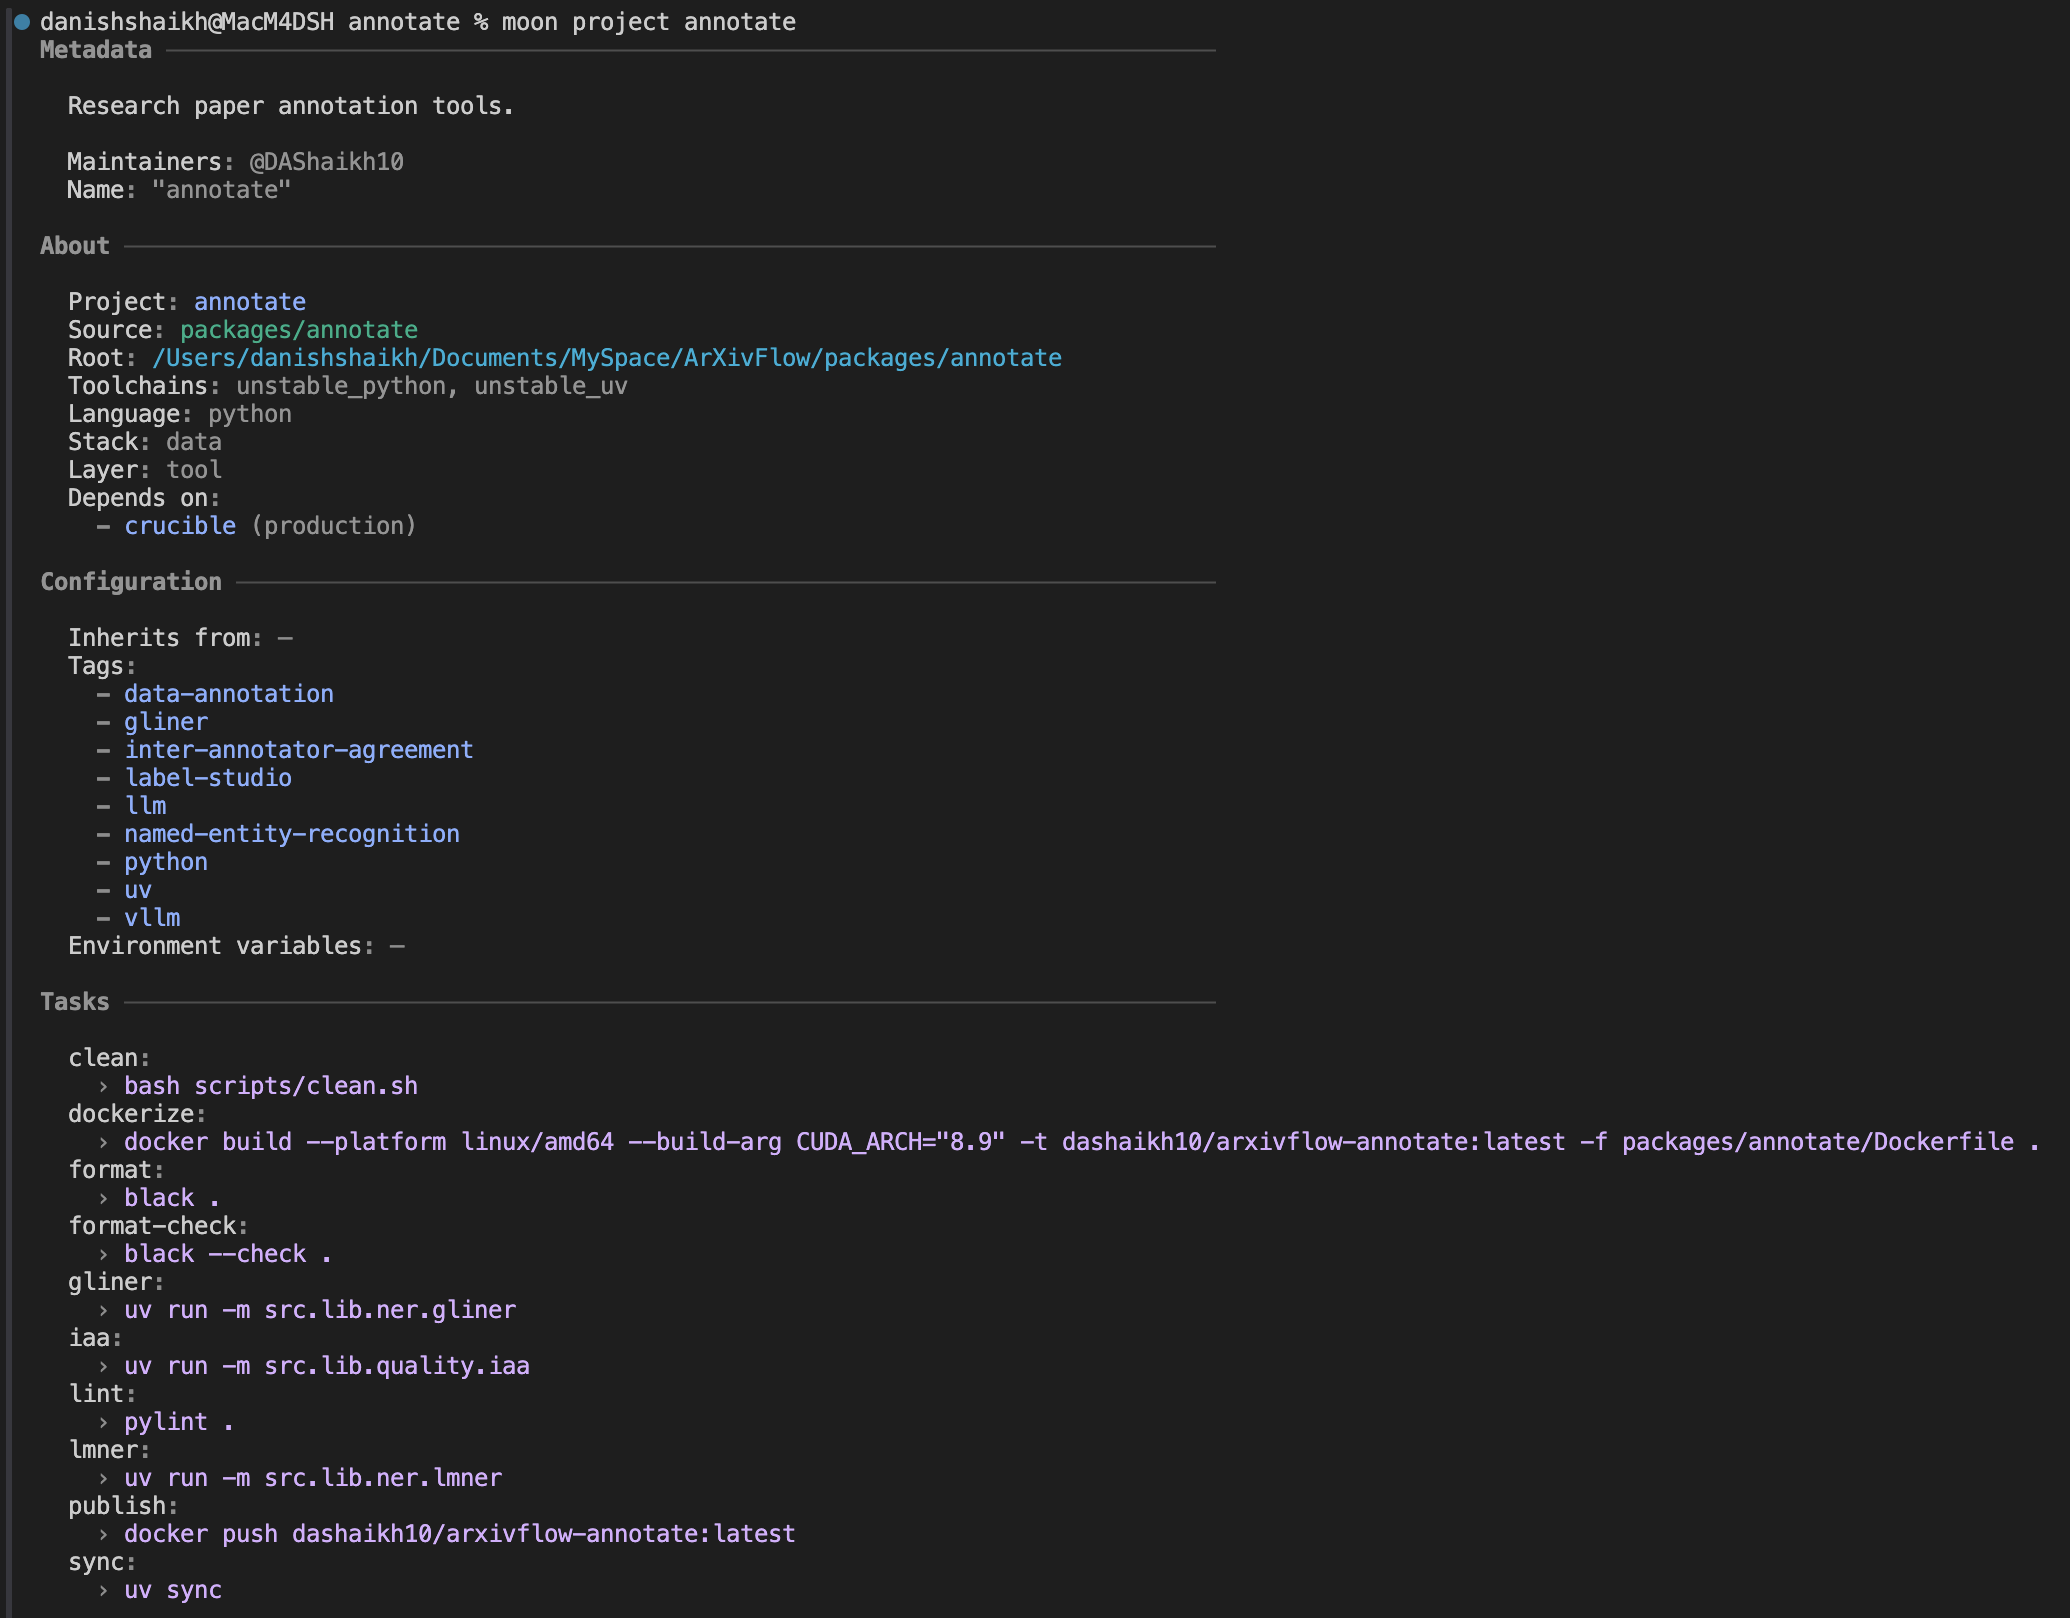
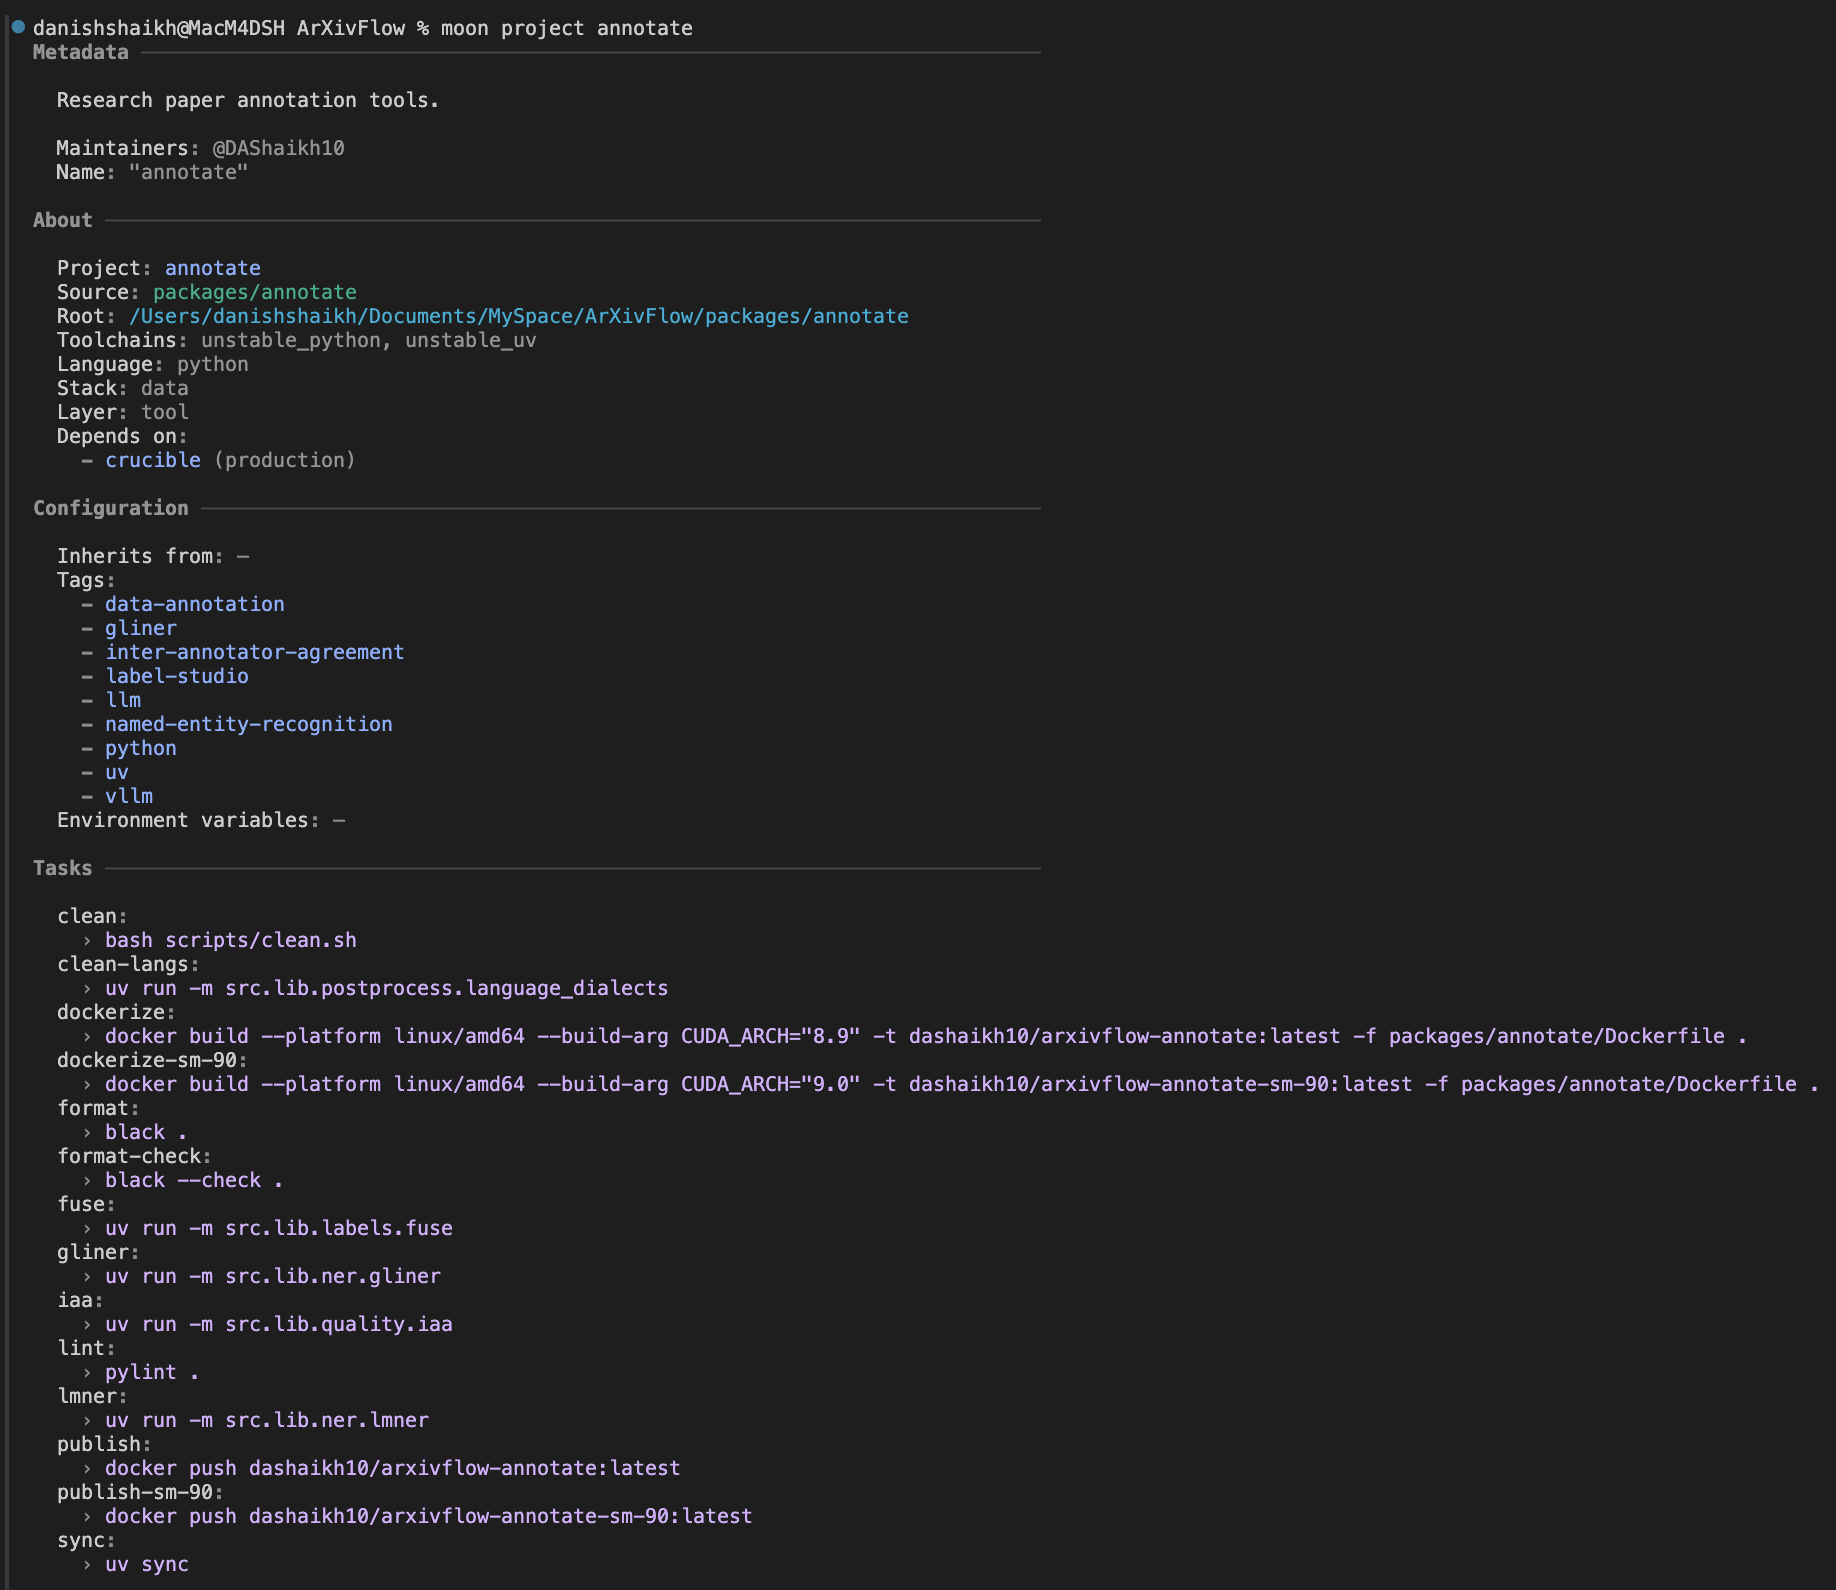
docs(annotate): update readme to reflect moon tasks change

Changed region(s): [[0.0, 0.0, 0.9935, 1.0]]

diff --git a/packages/annotate/README.md b/packages/annotate/README.md
@@ -170,8 +170,8 @@ moon run annotate:dockerize # Run from ArXivFlow workspace folder.
 NOTE: If building for H100/200 or B200 _(Both are overkill for these models!)_ we need to provide appropriate `CUDA_ARCH` parameter and preferablly a distinct image name:
 
 ```bash
-# H100 -> sm-90 / 9.0
-moon r annotate:dockerize -- --build-arg CUDA_ARCH=9.0 -t dashaikh10/arxivflow-annotate-sm-90:latest
+# H100 / H200 -> sm-90 / 9.0
+moon run annotate:dockerize-sm-90
 ```
 
 Publish the latest arxiv-annotate image to DockerHub _(Running this command will run dockerize command automatically)_: